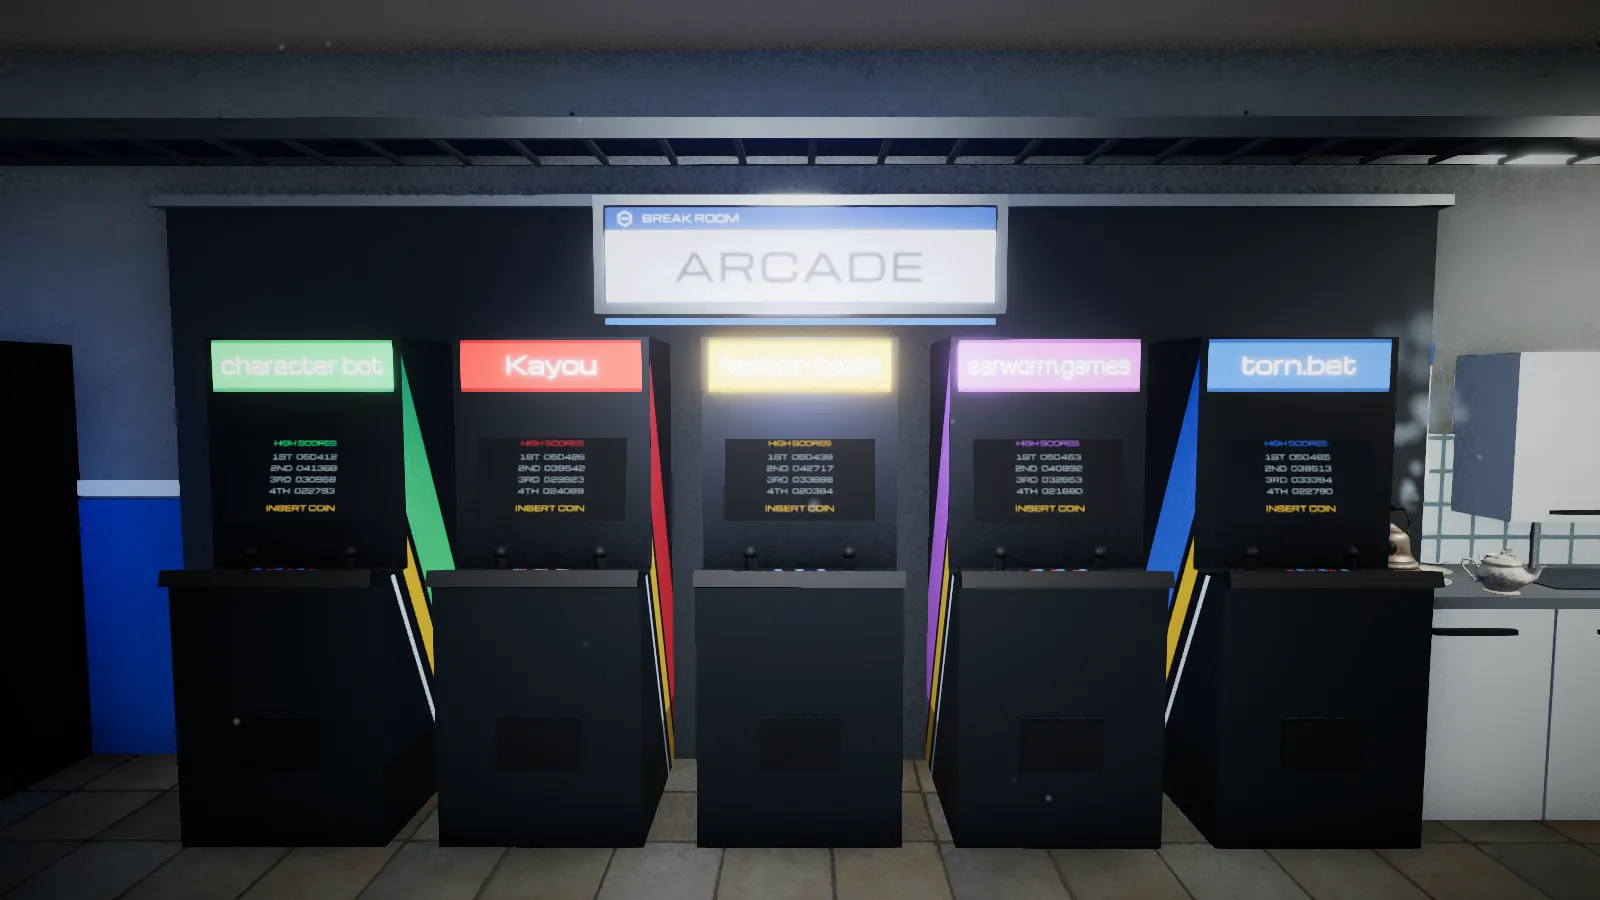
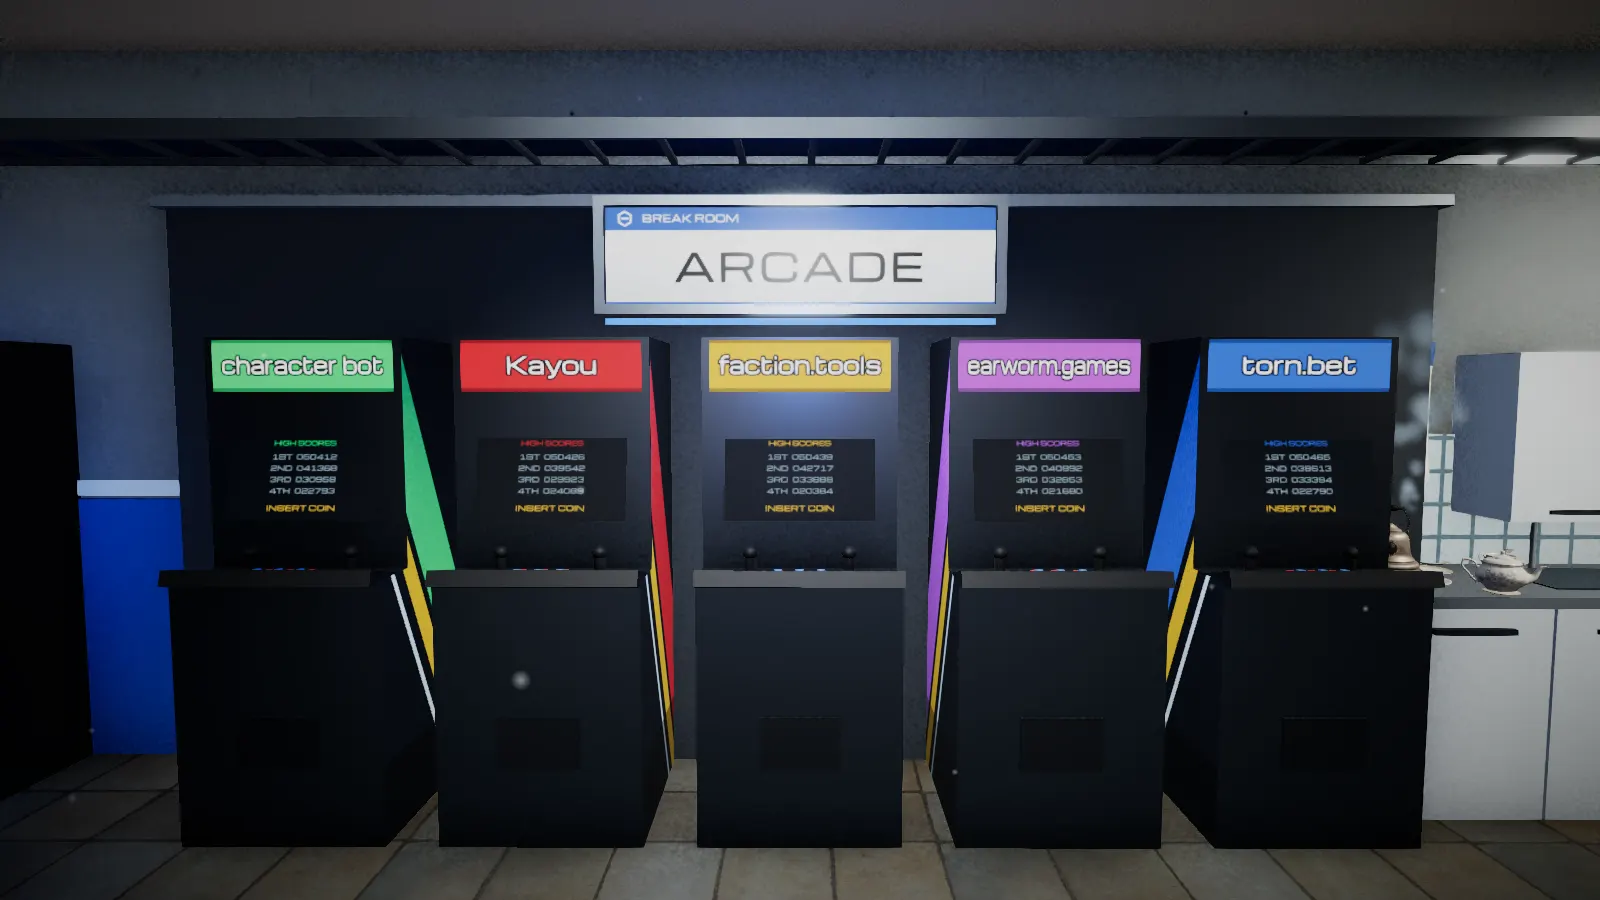
Stop the lit panels blowing their own lettering off
The marquees were emitting at 1.4 with the bloom threshold at 0.85, so
every plate went past white, ACES rolled the colour off, and the white
names went with it. Yellow went first, having the most luminance, and
"faction.tools" was the one that could not be read.

A backlit plate is its own light, not a white card under the room's. The
marquees and the lit sign faces now sit near the threshold on the emissive
pass and nearly black on the diffuse one, so a ceiling spot cannot add to
them, and the names carry a keyline so they hold an edge whatever the
exposure does around them. Stills re-rendered.

diff --git a/src/scenes/walk/labs/furniture.ts b/src/scenes/walk/labs/furniture.ts
@@ -177,7 +177,11 @@ export function arcadeCabinet(spec: ArcadeSpec): THREE.Group {
   const screen = new THREE.Mesh(new THREE.PlaneGeometry(0.58, 0.44), new THREE.MeshStandardMaterial({ color: 0x000000, emissive: 0xffffff, emissiveIntensity: 1.15, emissiveMap: face, map: face }));
   screen.position.set(0, 1.41, 0.17); screen.rotation.x = -0.2; g.add(screen);
   const lamp = marqueeFace(spec.title, spec.accent);
-  const marquee = new THREE.Mesh(new THREE.PlaneGeometry(0.7, 0.2), new THREE.MeshStandardMaterial({ color: 0xffffff, map: lamp, emissive: 0xffffff, emissiveMap: lamp, emissiveIntensity: 1.4 }));
+  // A backlit plate is its own light, not a white card under the room's. Held near the composer's
+  // 0.85 bloom threshold on the emissive pass, and nearly black on the diffuse one so the ceiling
+  // spot cannot add to it: above that threshold the plate blooms and ACES rolls the colour off
+  // toward white, taking the lettering with it. Yellow went first, having the most luminance.
+  const marquee = new THREE.Mesh(new THREE.PlaneGeometry(0.7, 0.2), new THREE.MeshStandardMaterial({ color: 0x1a1a1a, map: lamp, emissive: 0xffffff, emissiveMap: lamp, emissiveIntensity: 0.9 }));
   marquee.position.set(0, 1.79, 0.153); marquee.name = 'marquee'; g.add(marquee);
   return g;
 }
@@ -318,7 +322,7 @@ export function marqueeFace(title: string, accent = '#3D7BE0'): THREE.CanvasText
   const [c, ctx] = canvas(512, 146);
   ctx.fillStyle = accent; ctx.fillRect(0, 0, 512, 146);
   ctx.fillStyle = 'rgba(0,0,0,0.28)'; ctx.fillRect(0, 0, 512, 10); ctx.fillRect(0, 136, 512, 10);
-  ctx.textAlign = 'center'; ctx.textBaseline = 'middle'; ctx.fillStyle = '#ffffff';
+  ctx.textAlign = 'center'; ctx.textBaseline = 'middle';
   // A long title is condensed rather than shrunk. Michroma is a wide face, so setting a name like
   // "character bot" to fit at full size dropped it to about half the cap height of the short ones
   // and it could not be read at the hold at all. Squeezing the x axis keeps the letters as tall as
@@ -333,7 +337,12 @@ export function marqueeFace(title: string, accent = '#3D7BE0'): THREE.CanvasText
   while (wide * squeeze > 460 && px > 22) { px -= 2; wide = set(); }
   ctx.save();
   ctx.translate(256, 76); ctx.scale(squeeze, 1);
-  ctx.fillText(title, 0, 0);
+  // A keyline under the letters. The marquee is a lit panel behind a bloom threshold, so whatever
+  // the exposure does to the colour around them the letters keep an edge: white on a hot yellow
+  // plate is two clipped channels and no contrast at all, which is what "barely readable" was.
+  ctx.lineJoin = 'round'; ctx.lineWidth = 9; ctx.strokeStyle = 'rgba(6,10,16,0.92)';
+  ctx.strokeText(title, 0, 0);
+  ctx.fillStyle = '#ffffff'; ctx.fillText(title, 0, 0);
   ctx.restore();
   return own(c);
 }
@@ -345,7 +354,7 @@ export function posterSheet(text: string, seed = 1): THREE.CanvasTexture {
   const warn = text.includes('!');
   ctx.fillStyle = '#e6e1d3'; ctx.fillRect(0, 0, 256, 360);
   ctx.fillStyle = '#2455A4'; ctx.fillRect(0, 0, 256, 62);
-  ctx.textAlign = 'center'; ctx.textBaseline = 'middle'; ctx.fillStyle = '#ffffff';
+  ctx.textAlign = 'center'; ctx.textBaseline = 'middle';
   const px = 30;
   ctx.font = `600 ${px}px Michroma, system-ui, sans-serif`;
   const wide = ctx.measureText(text).width;

diff --git a/tests/unit/signage.test.ts b/tests/unit/signage.test.ts
@@ -80,8 +80,14 @@ describe('signBox', () => {
     const on = kit.signBox('RECREATION', { w: 1.6, h: 0.4, on: true });
     const off = kit.signBox('RECREATION', { w: 1.6, h: 0.4 });
     const face = (g: import('three').Group) => g.getObjectByName('face') as import('three').Mesh;
-    expect((face(on).material as import('three').MeshStandardMaterial).emissiveIntensity).toBe(0.6);
-    expect((face(off).material as import('three').MeshStandardMaterial).emissiveIntensity).toBe(0);
+    const lit = face(on).material as import('three').MeshStandardMaterial;
+    const dark = face(off).material as import('three').MeshStandardMaterial;
+    expect(lit.emissiveIntensity).toBeGreaterThan(0);
+    expect(dark.emissiveIntensity).toBe(0);
+    // Lit from behind, so the lit face takes almost no light off the room and the dark one is
+    // nothing but the light that falls on it. Both of them past the bloom threshold is what took
+    // the lettering off the arcade sign.
+    expect(lit.color.getHex()).toBeLessThan(dark.color.getHex());
   });
   it('centres on its face', () => {
     const box = new THREE.Box3().setFromObject(kit.signBox('OPERATIONS', { w: 2, h: 0.5, on: true }));

diff --git a/src/scenes/walk/labs/signage.ts b/src/scenes/walk/labs/signage.ts
@@ -144,8 +144,13 @@ export function signBox(text: string, opts: { w: number; h: number; accent?: num
   const map = signFace(text, print);
   // A dark sign never lights anything, so it does not pay for a second canvas.
   const glow = opts.on ? signFace(text, print, true) : map;
+  // A lit face carries almost no diffuse: the acrylic is lit from behind, so a ceiling spot on the
+  // front of it should not be able to add to it. White here plus a spot pushed the whole plate past
+  // the composer's bloom threshold, ACES rolled it off to paper white, and the name went with it.
+  // A dark sign is the other way round and is nothing but the light that falls on it.
   const face = new THREE.Mesh(new THREE.PlaneGeometry(w, h), new THREE.MeshStandardMaterial({
-    color: 0xffffff, map, roughness: 0.4, emissive: 0xffffff, emissiveMap: glow, emissiveIntensity: opts.on ? 0.6 : 0,
+    color: opts.on ? 0x2c2c2c : 0xffffff, map, roughness: 0.4,
+    emissive: 0xffffff, emissiveMap: glow, emissiveIntensity: opts.on ? 0.82 : 0,
   }));
   face.name = 'face'; g.add(face);
   const strip = new THREE.Mesh(new THREE.BoxGeometry(w, 0.03, 0.03), new THREE.MeshStandardMaterial({
